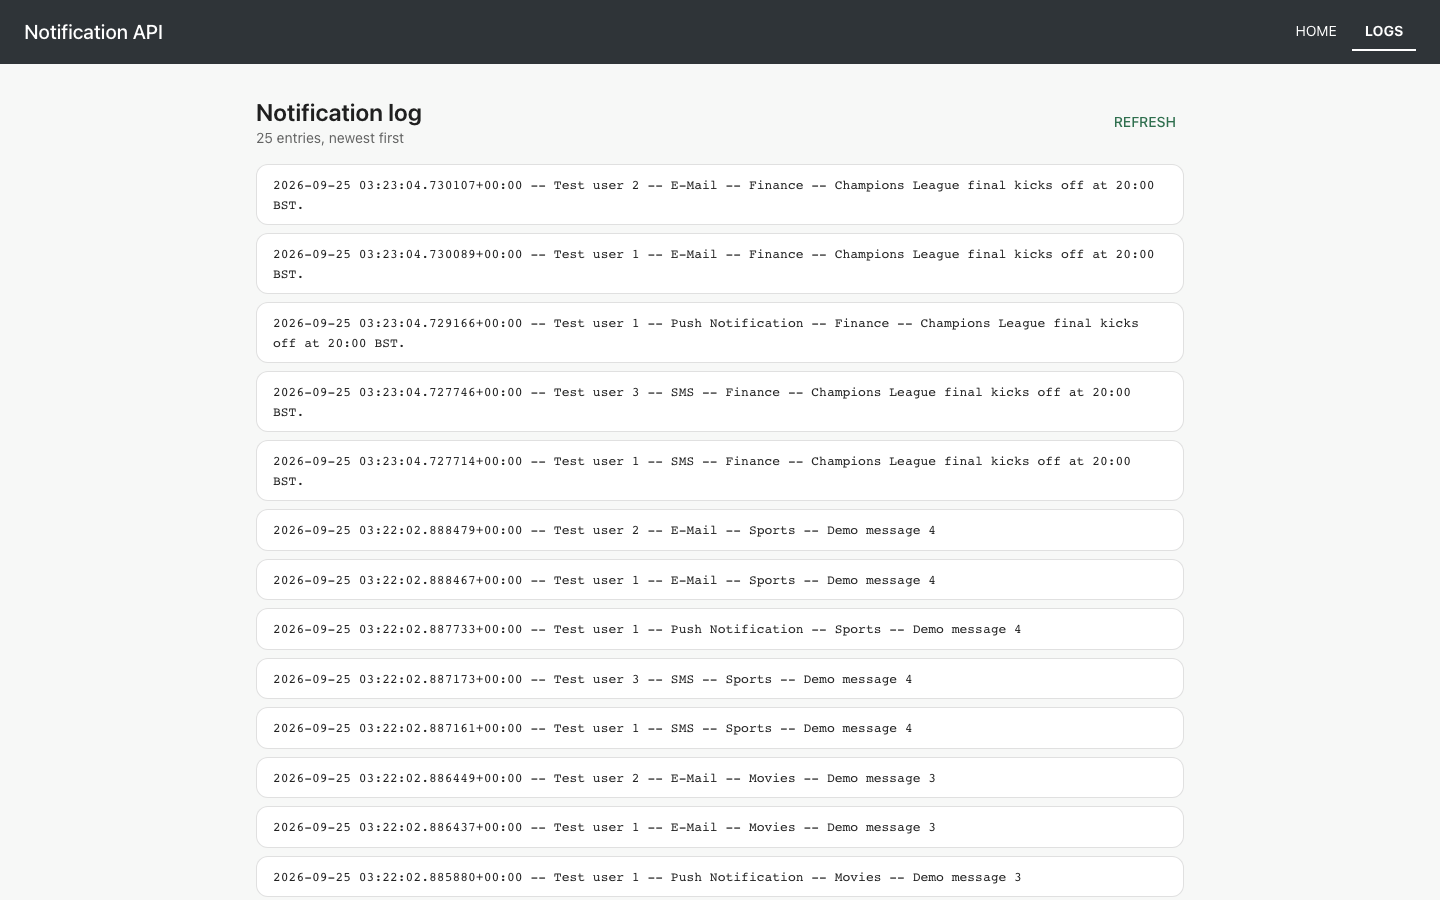
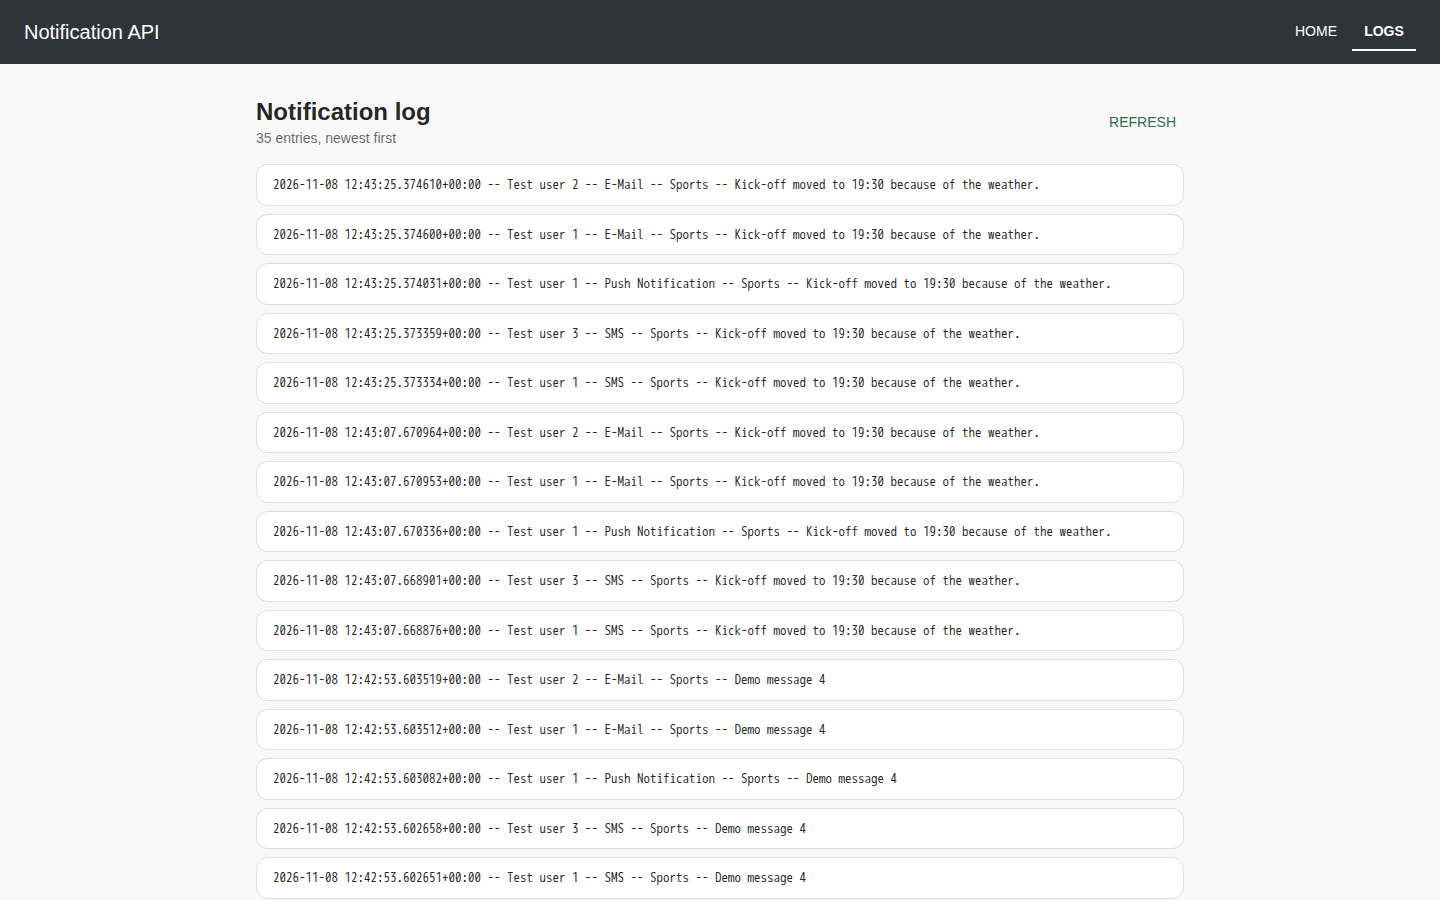
Retake the notification screenshots from the Compose stack
Captured with Playwright against the four-container stack and seed_demo
data. The log page now shows the total from the API, and a 390 px
phone capture is added. The README lists all five images, fixes the
link to a Configuration section that did not exist, uses npm ci, and
drops the note about a db.sqlite3 that was never committed.

diff --git a/notification-app/README.md b/notification-app/README.md
@@ -10,12 +10,15 @@ Part of [`code-samples`](../README.md).
 ## Stack
 
 - **Backend:** Python 3.12, Django 5.2, Django REST Framework, SQLite
-- **Frontend:** React 18, MUI 5, axios, React Router 6
+- **Frontend:** Node 22, React 18, MUI 5, axios, React Router 6
 
 ## Screenshots
 
 ![Add message form](docs/screenshots/01-add-message.png)
+![Category picker](docs/screenshots/02-category-open.png)
+![Message sent](docs/screenshots/03-message-sent.png)
 ![Notification log](docs/screenshots/04-notification-log.png)
+![Notification log on a phone](docs/screenshots/05-notification-log-mobile.png)
 
 ## Setup
 
@@ -35,11 +38,6 @@ python manage.py runserver
 the demo needs, and is safe to re-run. Pass `--messages N` to also generate
 messages and their log entries.
 
-> An earlier version of this file claimed the repository shipped a pre-populated
-> `db.sqlite3`. It does not — that file is git-ignored and was never committed,
-> which left a fresh clone with an empty database and a permanently blank Logs
-> page. `seed_demo` replaces that claim with something that actually works.
-
 For the admin site, create a superuser as well:
 
 ```bash
@@ -50,7 +48,7 @@ python manage.py createsuperuser
 
 ```bash
 cd notificationFrontend
-npm install
+npm ci
 cp .env.example .env.local      # optional; defaults to http://localhost:8000/
 npm start
 ```
@@ -64,7 +62,8 @@ npm start
 | `POST` | `/add/` | Create a message (`message`, `category`) and fan out notifications |
 | `GET` | `/categories/` | Selectable message categories — used by the Add Message form |
 
-Log responses are paginated (`PAGE_SIZE`, default 50):
+Log responses are paginated (`PAGE_SIZE`, default 50). The Logs page shows the
+newest page and the total, e.g. "Newest 50 of 120 entries":
 
 ```json
 { "count": 25, "next": null, "previous": null, "results": [ { "log": "..." } ] }
@@ -90,11 +89,15 @@ behaviour beyond writing a `Log` row.
 
 ```bash
 cd notificationAPI && python manage.py test          # 21 tests
-cd notificationFrontend && npm run test:ci           # 14 tests
+cd notificationFrontend && npm run test:once         # 16 tests
 ```
 
 No test makes a network call.
 
 ## Configuration
 
-See the [Configuration section of the root README](../README.md#configuration).
+API: `SECRET_KEY`, `DJANGO_DEBUG`, `ALLOWED_HOSTS`, `SQLITE_PATH`,
+`CORS_ALLOWED_ORIGINS`, `PAGE_SIZE`, all described in
+[`notificationAPI/.env.example`](notificationAPI/.env.example). Front-end:
+`REACT_APP_API_URL`, see
+[`notificationFrontend/.env.example`](notificationFrontend/.env.example).
